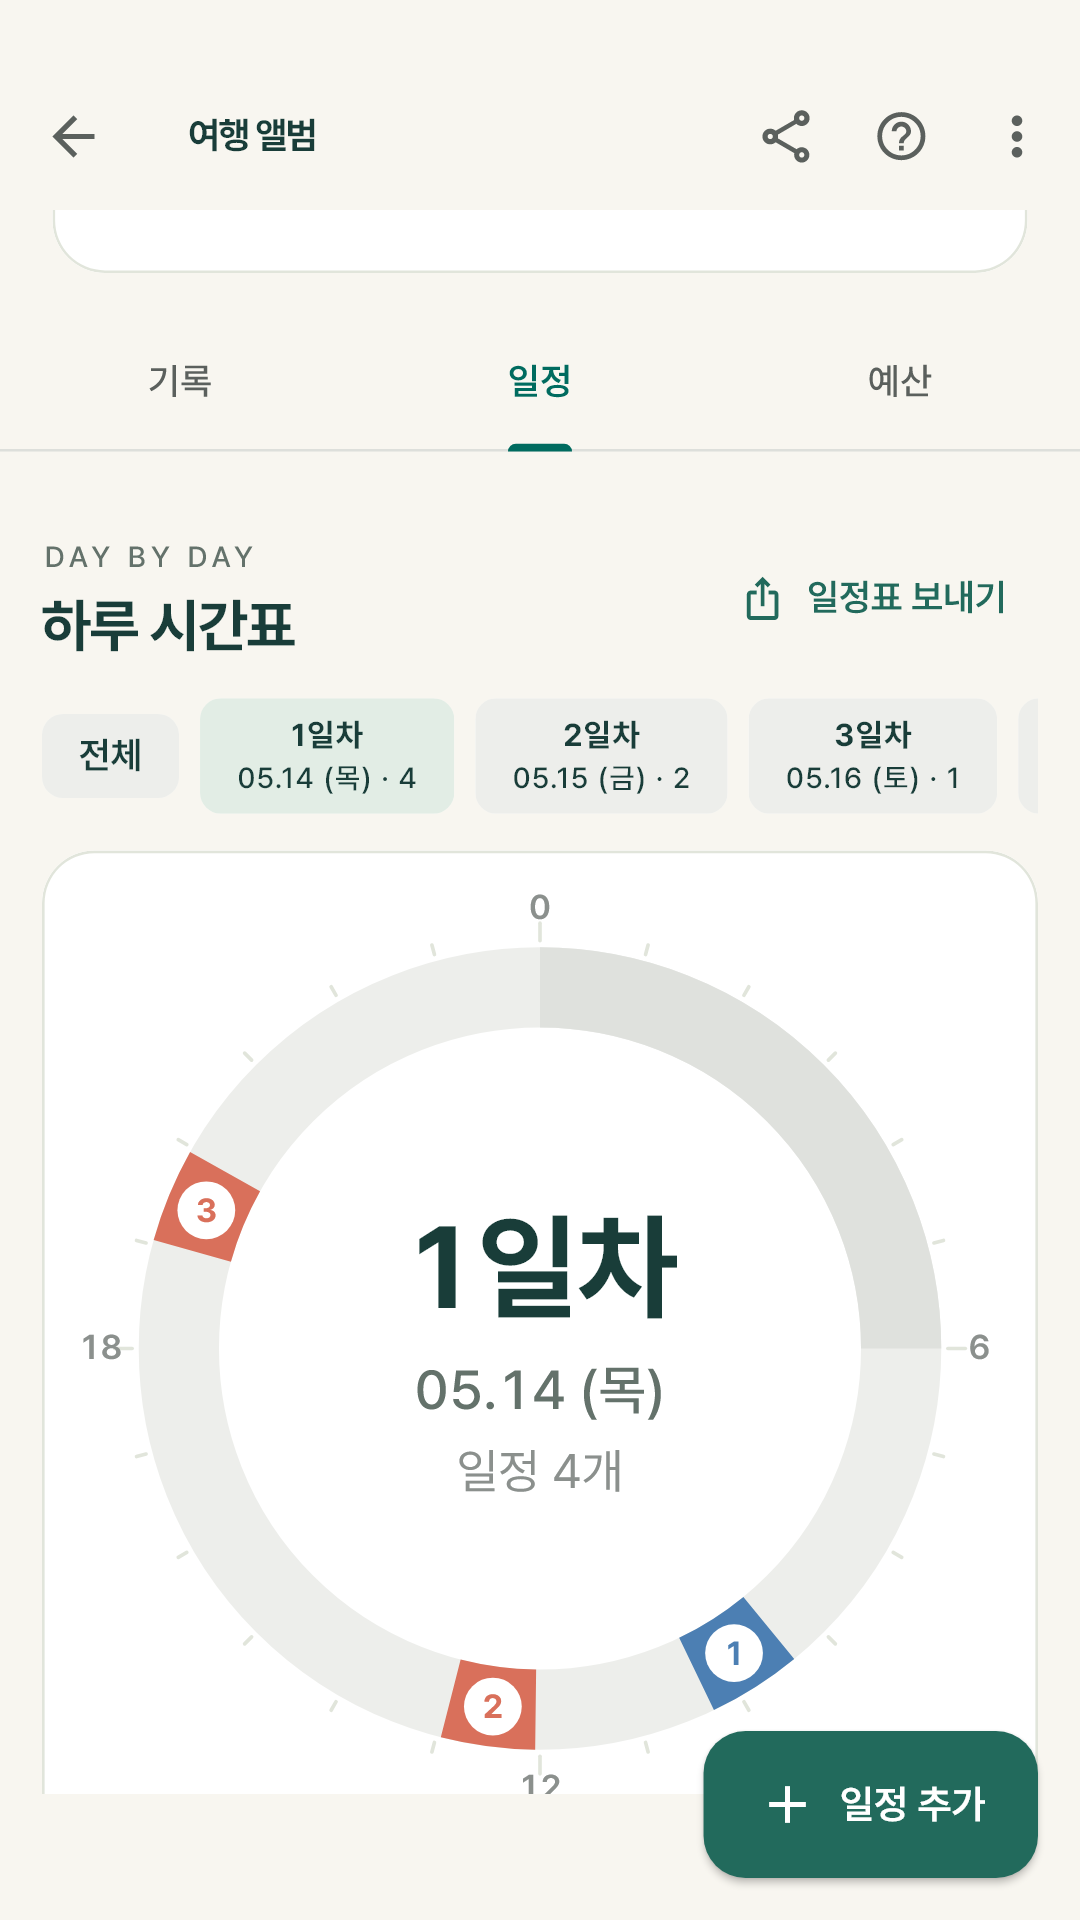
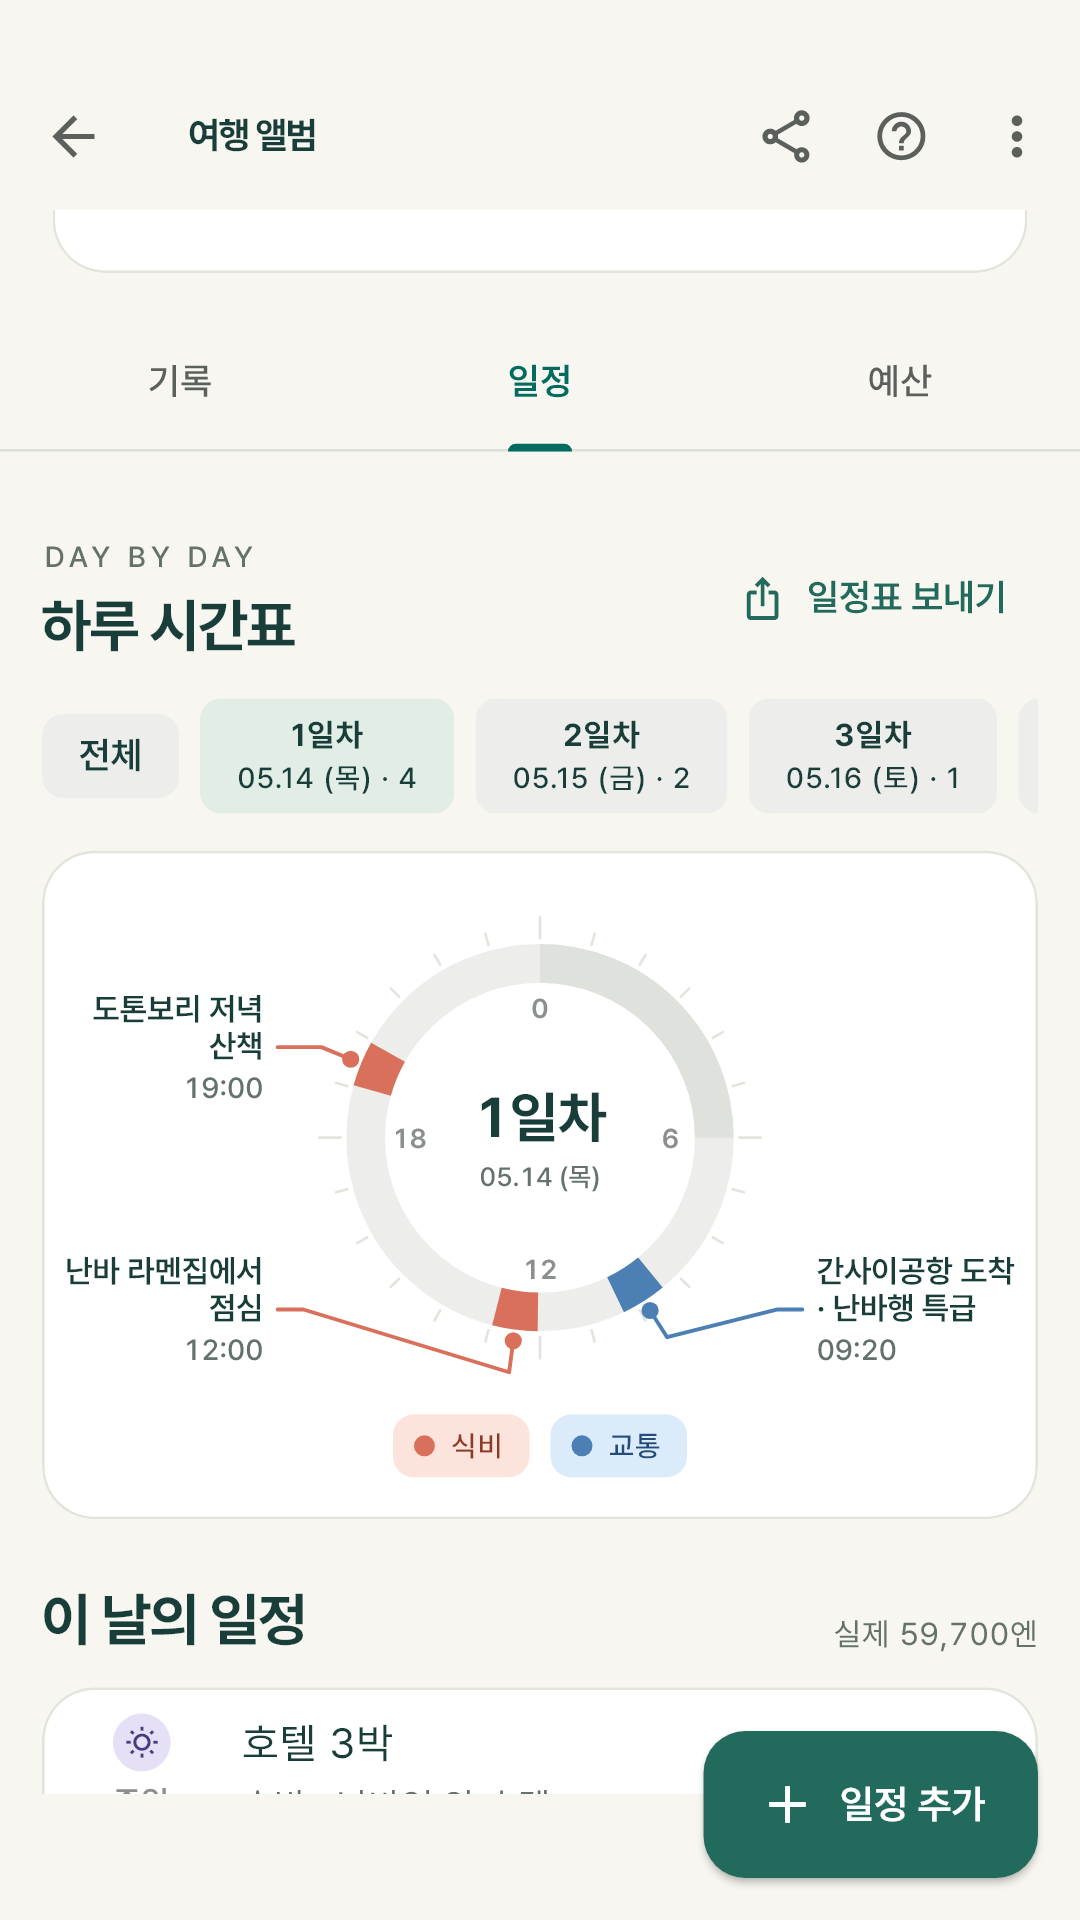
앱이소 여행 기록 소개 페이지 갱신 (시간표 조각에 제목 이름표)

diff --git a/travel_log/index.html b/travel_log/index.html
@@ -82,8 +82,8 @@
     앱이 쓰는 건 사본이라 갤러리 원본은 손대지 않고, 사본에서는 촬영 위치 같은 정보를 떼어 냅니다.
     전체 사진 라이브러리 권한을 요청하지 않고 고른 사진만 받아요.</li>
   <li><strong>일정 — 떠나기 전에 하루씩 그려요</strong> — 여행 기간의 모든 날이 "1일차 · 10.03 (토)" 칩으로
-    있어요. 날을 고르면 24시간 고리 시간표에 시각이 있는 일정이 분류색 조각으로 놓이고, 조각의 번호가
-    아래 목록과 맞아요. 시작·끝 시각, 분류, 예상 금액·실제 쓴 금액을 적고 기록과 연결해 두면 어디였는지
+    있어요. 날을 고르면 24시간 고리 시간표에 시각이 있는 일정이 분류색 조각으로 놓이고, 조각마다 할 일
+    제목과 시각이 이름표로 붙어요. 시작·끝 시각, 분류, 예상 금액·실제 쓴 금액을 적고 기록과 연결해 두면 어디였는지
     같이 보입니다.</li>
   <li><strong>일정표 보내기</strong> — 일행에게 계획을 보낼 땐 모든 날의 일정을 글로, 일정이 있는 날은
     하루 한 장 시간표 그림으로 함께 보내요. 앱이 없어도 볼 수 있고 금액은 빠집니다.</li>
@@ -111,7 +111,7 @@
 <figure><img src="shots/01-home.png" alt="예정·여행 중·다녀옴 상태가 붙은 여행 카드 목록" loading="lazy"><figcaption>지금 무엇이 진행 중인지 한눈에.</figcaption></figure>
 <figure><img src="shots/02-places.png" alt="종류 칩으로 거르는 맛집·관광지·숙소 기록 목록" loading="lazy"><figcaption>맛집만, 숙소만 걸러 보기.</figcaption></figure>
 <figure><img src="shots/03-place.png" alt="사진 줄과 별점·주소·메모가 있는 기록 상세 화면" loading="lazy"><figcaption>사진과 함께 남기는 한마디.</figcaption></figure>
-<figure><img src="shots/04-schedule.png" alt="하루를 24시간 고리로 그린 시간표와 번호가 매겨진 그날의 일정 목록" loading="lazy"><figcaption>하루를 고리 시간표로, 일행에게는 그림으로.</figcaption></figure>
+<figure><img src="shots/04-schedule.png" alt="하루를 24시간 고리로 그린 시간표와 조각마다 제목 이름표가 붙은 그날의 일정 목록" loading="lazy"><figcaption>하루를 고리 시간표로, 일행에게는 그림으로.</figcaption></figure>
 <figure><img src="shots/05-budget.png" alt="예산 대비 지출과 분류별·날짜별 합계" loading="lazy"><figcaption>계획한 돈과 실제로 쓴 돈.</figcaption></figure>
 <figure><img src="shots/06-share.png" alt="여행 전체 또는 종류를 골라 글과 사진이나 앱 파일로 보내는 공유 시트" loading="lazy"><figcaption>사진도 함께 친구에게.</figcaption></figure>
 <figure><img src="shots/07-home-dark.png" alt="어두운 화면의 여행 목록" loading="lazy"><figcaption>어두운 화면도 됩니다.</figcaption></figure>
